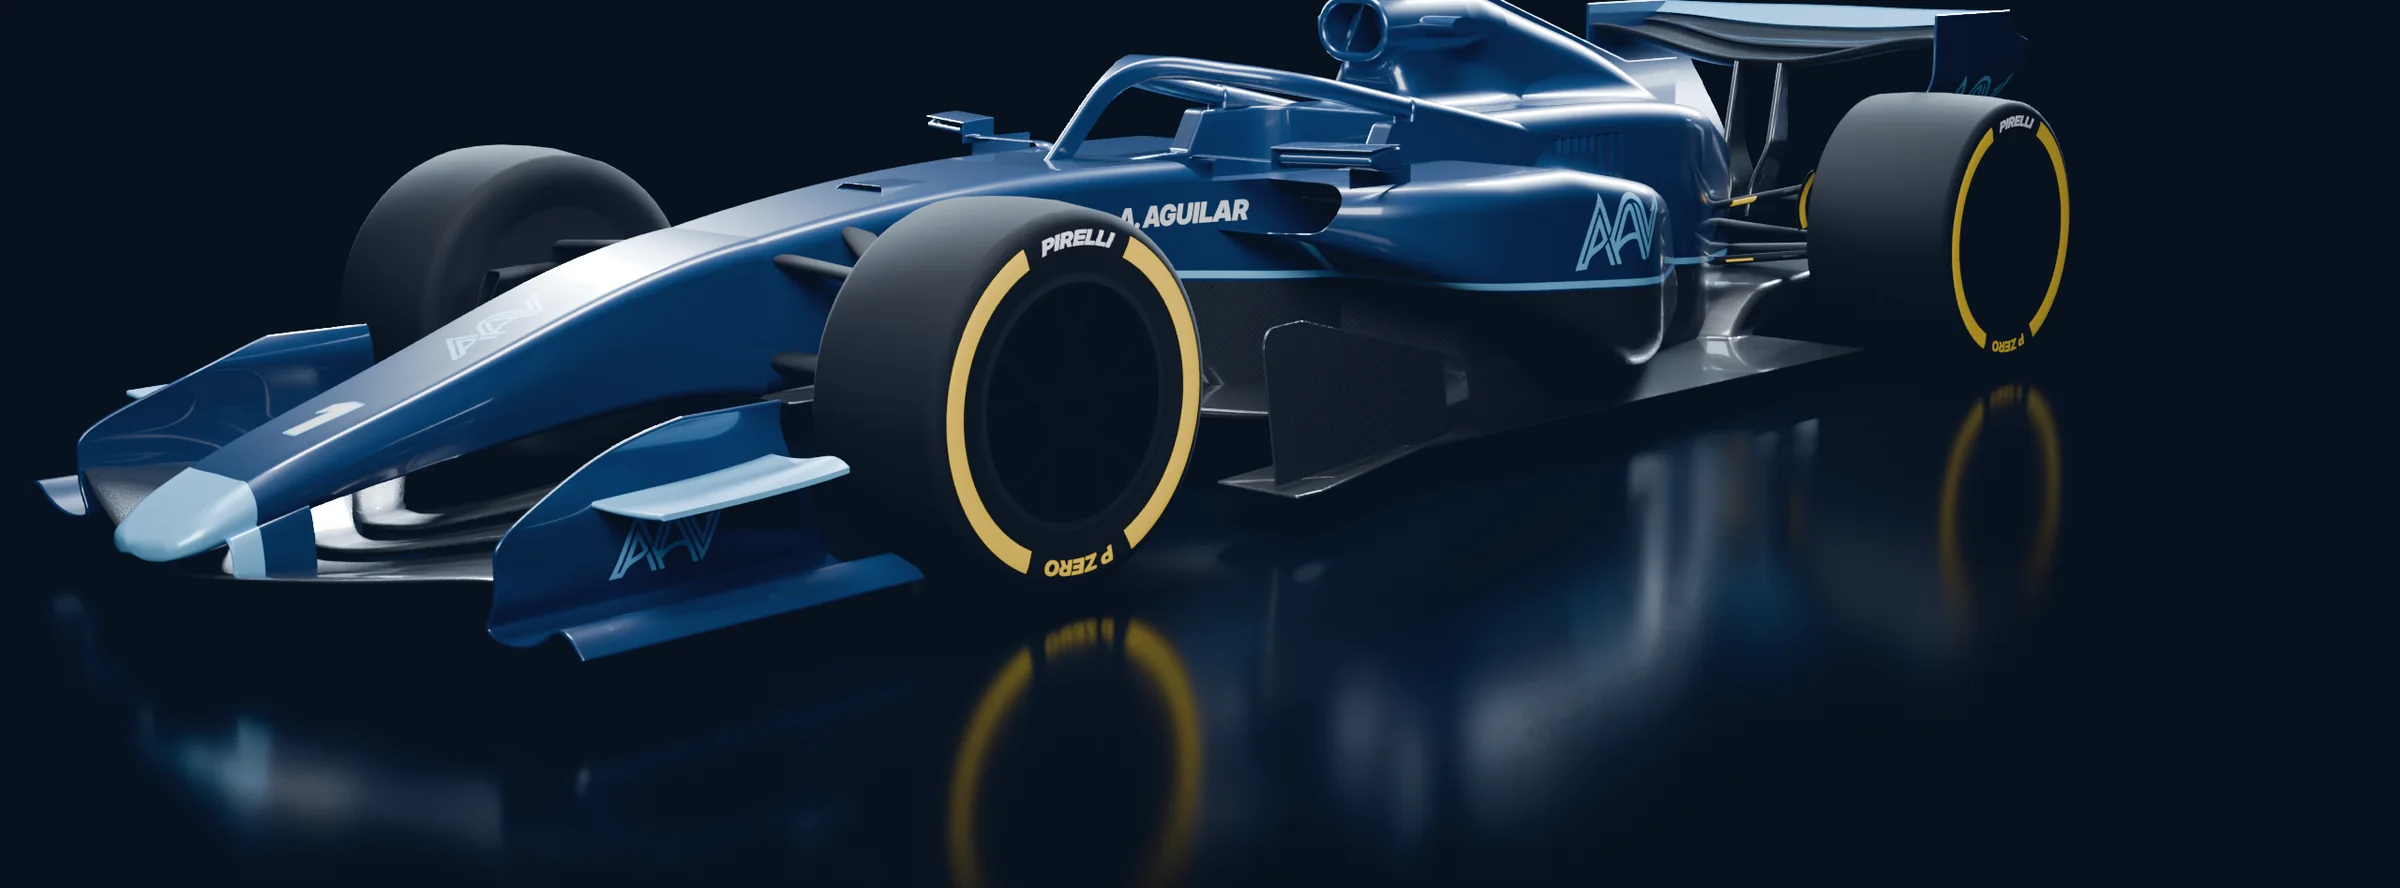
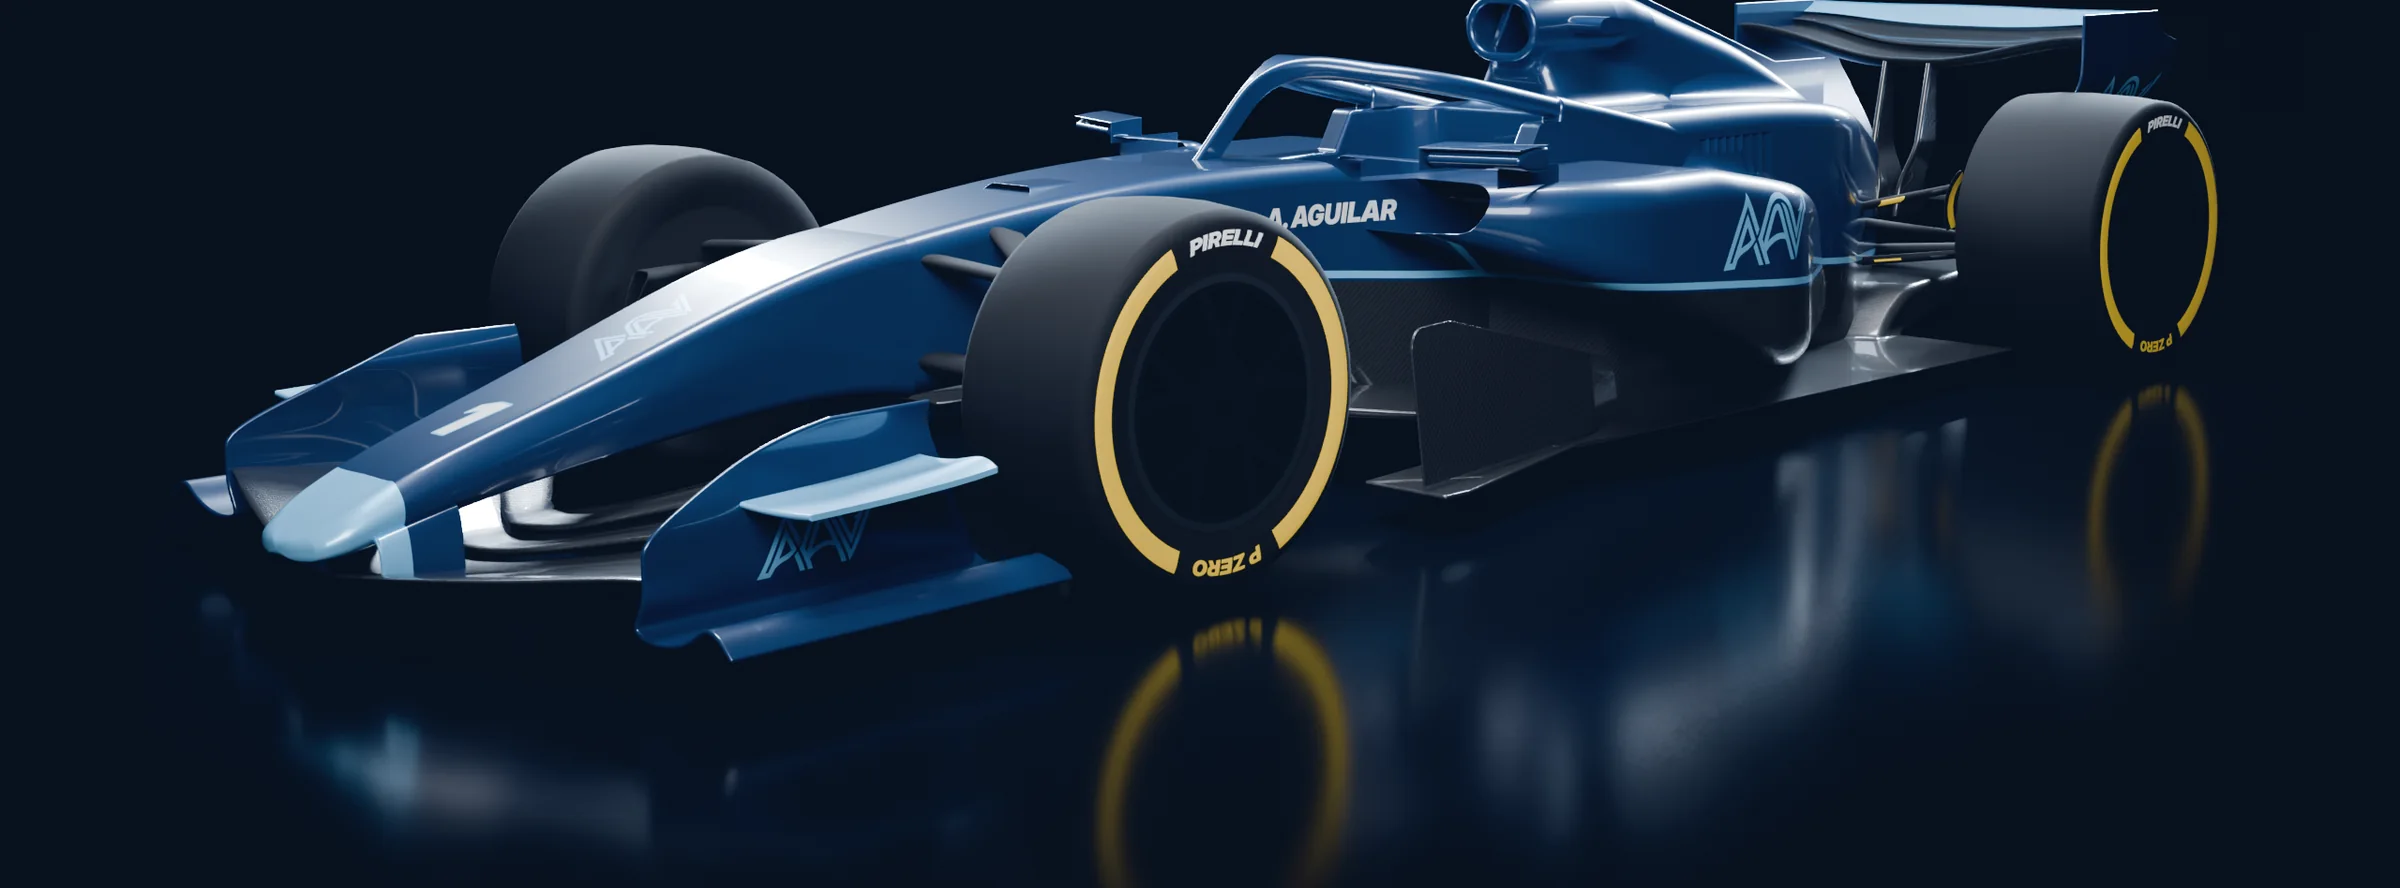
Hero: remove mode switch, centre the car render
Claude-Session: https://claude.ai/code/session_01YNAsmPSstyy3ufzkRWSRBH

diff --git a/index.html b/index.html
@@ -387,7 +387,7 @@ body::before{content:"";position:fixed;inset:0 0 auto;height:env(safe-area-inset
 /* stage hero: always a dark field, theme-independent */
 .stage{--ground:#07101d;--ink:#eaf1fa;--ink-2:#b4c3d6;--ink-3:#8496ad;--accent:#7cc2f2;--accent-ink:#06111e;background:#07101d;color:var(--ink);padding-top:clamp(36px,6vh,72px);overflow:hidden}
 .stage-name{font-weight:900;font-size:clamp(46px,9.6vw,168px);line-height:.88;font-stretch:118%;letter-spacing:-.05em;color:var(--ink);white-space:normal;animation:up .8s var(--ease) both}
-.stage-row{display:grid;grid-template-columns:minmax(0,1.15fr) minmax(0,1fr);gap:clamp(24px,5vw,96px);align-items:end;margin-top:clamp(24px,3.4vw,48px)}
+.stage-row{display:grid;grid-template-columns:minmax(0,1fr);gap:clamp(24px,5vw,96px);align-items:end;margin-top:clamp(24px,3.4vw,48px)}
 .stage-copy{animation:up .8s var(--ease) .08s both}
 .stage .lede{font-size:clamp(18px,1.35vw,20px);line-height:1.5;color:var(--ink);max-width:56ch}
 .stage .cta{margin-top:26px;display:flex;gap:12px;flex-wrap:wrap}
@@ -441,7 +441,7 @@ body::before{content:"";position:fixed;inset:0 0 auto;height:env(safe-area-inset
 </header>
 
 <main id="top">
-  <section class="stage gut" id="hero" data-mode="z">
+  <section class="stage gut" id="hero">
     <div class="wrap">
       <h1 class="stage-name">Alex Aguilar Viel</h1>
       <div class="stage-row">
@@ -452,18 +452,10 @@ body::before{content:"";position:fixed;inset:0 0 auto;height:env(safe-area-inset
             <a class="btn line" href="cv.pdf" target="_blank" rel="noopener">Download CV</a>
           </div>
         </div>
-        <div class="mode" role="group" aria-label="Active aero mode of the full car">
-          <div class="mode-switch">
-            <button type="button" class="on" data-set="z" aria-pressed="true">Corner Mode</button>
-            <button type="button" data-set="x" aria-pressed="false">Straight Mode</button>
-          </div>
-          <p class="mode-note">My wings on the 2026 car, in both active aero modes.</p>
-        </div>
       </div>
     </div>
     <figure class="stage-car">
       <img class="cz" src="tfg/hero_z.webp" srcset="tfg/hero_z_s.webp 1200w, tfg/hero_z.webp 2400w" sizes="100vw" alt="My front and rear wings on a 2026 F1 car in my AAV livery, Corner Mode" width="2400" height="889" fetchpriority="high">
-      <img class="cx" src="tfg/hero_x.webp" srcset="tfg/hero_x_s.webp 1200w, tfg/hero_x.webp 2400w" sizes="100vw" alt="The same car in Straight Mode, both wings at minimum incidence" width="2400" height="889" loading="lazy">
     </figure>
   </section>
 
@@ -658,13 +650,5 @@ document.documentElement.classList.add('js');
 })();
 </script>
 
-<script>
-(function(){var st=document.getElementById('hero');if(!st)return;var bs=st.querySelectorAll('.mode-switch button'),nums=st.querySelectorAll('.mode-figs b'),reduce=matchMedia('(prefers-reduced-motion: reduce)').matches;
-function tween(el,to){var dp=+(el.dataset.dp||0),from=parseFloat(el.textContent),t0=performance.now(),d=reduce?0:650;
- (function f(t){var k=d?Math.min(1,(t-t0)/d):1;k=1-Math.pow(1-k,3);el.textContent=(from+(to-from)*k).toFixed(dp);if(k<1)requestAnimationFrame(f)})(t0)}
-function set(m){st.dataset.mode=m;bs.forEach(function(b){var on=b.dataset.set===m;b.classList.toggle('on',on);b.setAttribute('aria-pressed',on)});nums.forEach(function(n){tween(n,parseFloat(n.dataset[m]))});var cx=st.querySelector('.cx');if(cx.loading==='lazy')cx.loading='eager'}
-bs.forEach(function(b){b.addEventListener('click',function(){set(b.dataset.set)})});
-})();
-</script>
 </body>
 </html>
